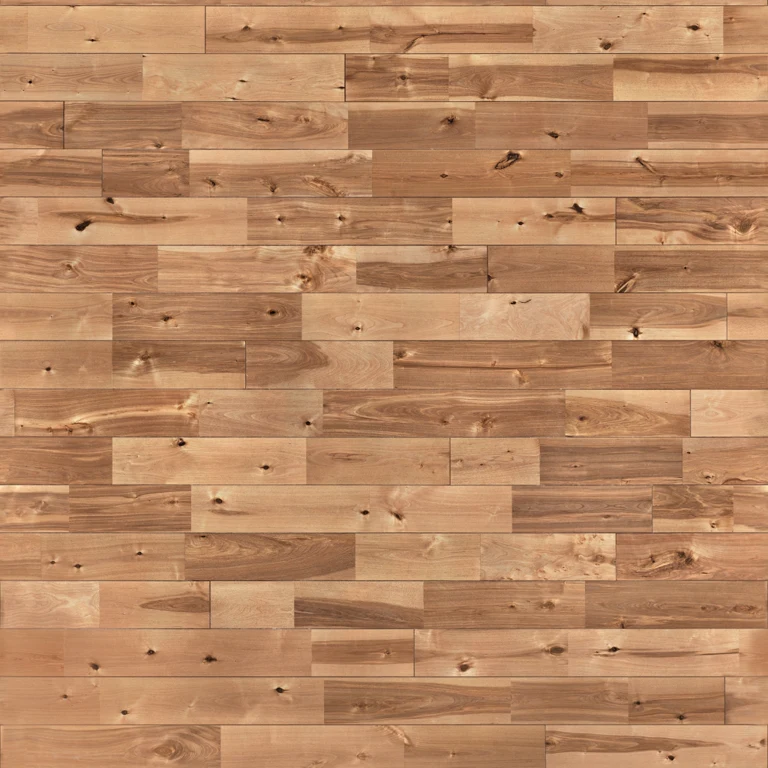
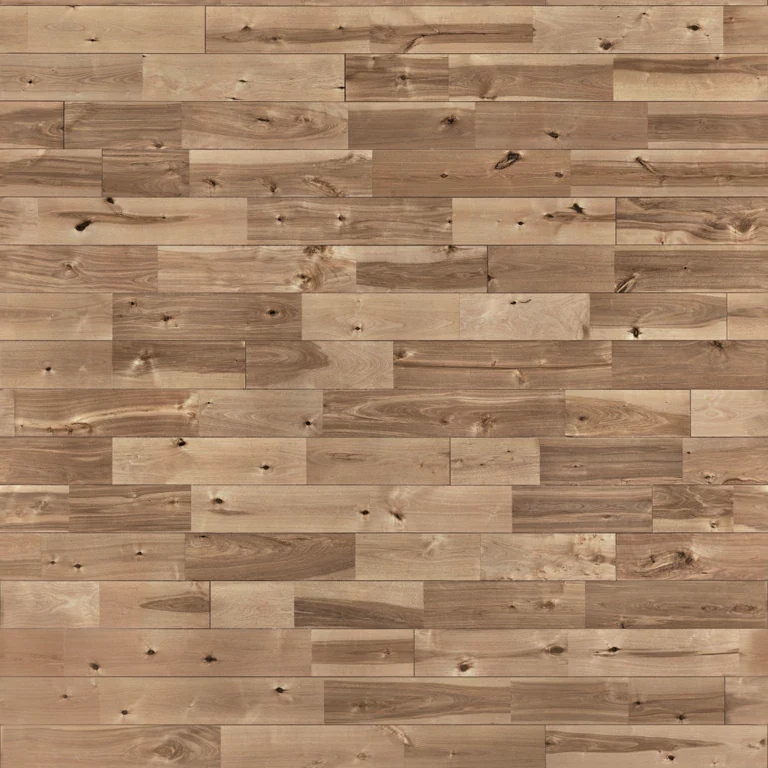
Mejorar el render inicial del showroom y el encuadre móvil

Changed region(s): [[0.9688, 0.25, 1.0, 0.2812], [0.375, 0.3438, 0.4062, 0.375], [0.2188, 0.5, 0.25, 0.5312]]

diff --git a/lib/blum-review-scene.ts b/lib/blum-review-scene.ts
@@ -12,7 +12,6 @@ export type KitchenPose = { chapter: number; travel: number; firstApproach: numb
 
 const finishAssets = {
   limestone: 'kitchen-limestone.webp',
-  plaster: 'kitchen-white_plaster_02-color.webp',
   plasterNormal: 'kitchen-white_plaster_02-normal.webp',
   floor: 'kitchen-wooden_floor_02-color.webp',
   floorNormal: 'kitchen-wooden_floor_02-normal.webp',
@@ -50,7 +49,8 @@ function createBlumScene(canvas: HTMLCanvasElement, demo: BlumDemo | 'kitchen', 
   let environment: T.WebGLRenderTarget | undefined;
   const key = new T.DirectionalLight(0xffebd2, 2.1);
   key.position.set(-2, 5, 4);
-  scene.add(key, new T.HemisphereLight(0xf3f5fa, 0x716657, 1.6));
+  const fill = new T.HemisphereLight(0xf3f5fa, 0x716657, 1.6);
+  scene.add(key, fill);
 
   const camera = new T.PerspectiveCamera(36, 1, 0.05, 30);
   const assembly = new T.Group();
@@ -99,8 +99,8 @@ function createBlumScene(canvas: HTMLCanvasElement, demo: BlumDemo | 'kitchen', 
   }
 
   const limestone = kitchen ? surface(0xe0dbd3, 0.73) : oak;
-  const lacquer = kitchen ? surface(0xe4dcd0, 0.28) : cream;
-  const countertop = kitchen ? surface(0xd8d4ca, 0.29) : cream;
+  const lacquer = kitchen ? surface(0xe4dcd0, 0.43) : cream;
+  const countertop = kitchen ? surface(0xd8d4ca, 0.38) : cream;
 
   function box(parent: T.Object3D, material: T.Material, size: number[], position: number[], radius = 0.002) {
     const [width, height, depth] = size;
@@ -152,6 +152,7 @@ function createBlumScene(canvas: HTMLCanvasElement, demo: BlumDemo | 'kitchen', 
 
   function servo() {
     const [, rightPanel] = cabinet(0.84, 0.72, 0.58, graphite);
+    if (kitchen) box(root, graphite, [.75, .054, .51], [0, -.027, -.313]);
     box(root, countertop, [0.88, 0.032, 0.62], [0, 0.736, -0.285], 0.004);
     box(root, limestone, [0.832, 0.348, 0.021], [0, 0.18, 0.012]);
     const drawer = new T.Group();
@@ -203,14 +204,22 @@ function createBlumScene(canvas: HTMLCanvasElement, demo: BlumDemo | 'kitchen', 
 
   function tower() {
     cabinet(.6, 1.99, .56, graphite);
-    const { door, drawers, setPose } = bindSpaceTower(hardware('tower'));
+    const model = hardware('tower');
+    const { door, drawers, setPose } = bindSpaceTower(model);
+    const interior = kitchen ? drawers.flatMap((drawer, i) => [
+      drawer, cadPart(model, `FixedRail${i}`), cadPart(model, `Slide${i}`),
+    ]) : [];
     const grip = box(root, cap, [.009, .22, .016], [.248, 1.12, .026], .003);
     door.add(grip);
     controlPoint(door, 2, .212, 1.07, .04);
     drawers.forEach((drawer, i) => {
       controlPoint(drawer, 2, 0, [.119, .498, .818, 1.17, 1.448][i], .023);
     });
-    return (pose: DemoPose) => setPose(pose.door, pose.drawers);
+    return (pose: DemoPose) => {
+      // The opaque door conceals the drawers and their rails at the closed stop.
+      interior.forEach(part => { part.visible = pose.door > 0; });
+      setPose(pose.door, pose.drawers);
+    };
   }
 
   function resize(width: number, height: number) {
@@ -234,11 +243,15 @@ function createBlumScene(canvas: HTMLCanvasElement, demo: BlumDemo | 'kitchen', 
 
   function showKitchen(finishes: KitchenFinishes) {
     scene.background = new T.Color(0xd6c9b5);
-    renderer.toneMappingExposure = 1.12;
+    renderer.toneMappingExposure = 1.04;
     renderer.shadowMap.enabled = true;
     renderer.shadowMap.type = T.PCFShadowMap;
-    key.intensity = 2.65;
-    key.position.set(-4.8, 4, 1.1);
+    key.color.set(0xe6efff);
+    key.intensity = 1.25;
+    key.position.set(-4.8, 3.5, .3);
+    fill.color.set(0xf5f5f3);
+    fill.groundColor.set(0x8e8170);
+    fill.intensity = 1.67;
     key.castShadow = true;
     const shadowSize = touch ? 1024 : 2048;
     key.shadow.mapSize.set(shadowSize, shadowSize);
@@ -246,24 +259,28 @@ function createBlumScene(canvas: HTMLCanvasElement, demo: BlumDemo | 'kitchen', 
     key.shadow.needsUpdate = true;
     Object.assign(key.shadow.camera, { left: -4.5, right: 4.5, top: 4, bottom: -4, near: .5, far: 13 });
     key.shadow.camera.updateProjectionMatrix();
-    key.shadow.normalBias = 0.006;
-    key.shadow.bias = -0.0004;
-    const wall = surface(0xcbbca8, .86);
-    const backsplash = surface(0xa99c8c, .73);
-    const plaster = surface(0xe1d9cd, 0.95);
-    const ceiling = surface(0xf5f0e8, .93);
-    ceiling.emissive.set(0xeee8df);
-    ceiling.emissiveIntensity = .21;
-    const floor = surface(0xe4ceb3, .57);
+    key.shadow.normalBias = .012;
+    key.shadow.bias = -.00065;
+    key.shadow.radius = touch ? 1.5 : 2.5;
+    const wall = surface(0xcfc9bc, .91);
+    const backsplash = surface(0xc4b9a8, .67);
+    const plaster = surface(0xdedbd2, .94);
+    const ceiling = surface(0xe9e7e0, .96);
+    ceiling.emissive.set(0xd6d4ce);
+    ceiling.emissiveIntensity = .11;
+    const floor = surface(0xc3c4bd, .71);
     const dark = surface(0x232522, 0.49);
-    const bouncedDaylight = new T.PointLight(0xf9f0dd, 11, 6, 2);
-    bouncedDaylight.position.set(-1.68, 1.55, -.37);
+    graphite.color.set(0x393b3a);
+    graphite.roughness = .61;
+    cap.color.set(0x5f6464);
+    const bouncedDaylight = new T.PointLight(0xe6edfc, 8.2, 7, 2);
+    bouncedDaylight.position.set(-2.16, 1.78, -1.25);
     scene.add(bouncedDaylight);
     const plant = surface(0x485637, 0.82);
     const ceramic = surface(0x857a55, 0.48);
-    const warmLight = surface(0xffedbf, 0.45);
-    warmLight.emissive.set(0xffc37a);
-    warmLight.emissiveIntensity = 1.5;
+    const warmLight = surface(0xffefdb, 0.45);
+    warmLight.emissive.set(0xffd6ac);
+    warmLight.emissiveIntensity = 1;
 
     box(root, floor, [12, .08, 12], [0, -.04, 0], 0).castShadow = false;
     const contact = document.createElement('canvas');
@@ -271,9 +288,9 @@ function createBlumScene(canvas: HTMLCanvasElement, demo: BlumDemo | 'kitchen', 
     const shade = contact.getContext('2d');
     if (shade) {
       const gradient = shade.createRadialGradient(64, 64, 9, 64, 64, 64);
-      gradient.addColorStop(0, '#2b2116b0');
-      gradient.addColorStop(0.42, '#2b21166e');
-      gradient.addColorStop(1, '#2b211600');
+      gradient.addColorStop(0, '#241f1bbb');
+      gradient.addColorStop(0.42, '#241f1b75');
+      gradient.addColorStop(1, '#241f1b00');
       shade.fillStyle = gradient;
       shade.fillRect(0, 0, 128, 128);
       const map = new T.CanvasTexture(contact);
@@ -293,36 +310,41 @@ function createBlumScene(canvas: HTMLCanvasElement, demo: BlumDemo | 'kitchen', 
     box(root, backsplash, [3.39, .735, .018], [-.83, 1.222, -2.631]);
     box(root, ceiling, [7, .11, 7.5], [.48, 2.746, 1.04]).castShadow = false;
     box(root, plaster, [.12, 2.7, 7.5], [3.1, 1.35, 1.04]).castShadow = false;
-    box(root, plaster, [5.74, .045, .054], [.19, 2.672, -2.627], .003);
+    box(root, ceiling, [5.74, .019, .039], [.19, 2.682, -2.634], .001).castShadow = false;
+    box(root, plaster, [.025, .086, 4.2], [-2.609, .043, -.49], .002);
     box(root, plaster, [0.16, 2.7, .55], [-2.7, 1.35, -2.37]);
     box(root, plaster, [0.17, 2.7, 3.45], [-2.7, 1.35, 1.17]);
     box(root, plaster, [0.16, .23, 1.63], [-2.7, 2.58, -1.28]);
     box(root, plaster, [0.16, .75, 1.63], [-2.7, .375, -1.28]);
-    const windowTrim = surface(0x69635a, .47, .28);
-    for (const y of [.766, 2.45]) box(root, windowTrim, [.058, .043, 1.59], [-2.77, y, -1.28]);
-    for (const z of [-2.061, -1.28, -.498]) box(root, windowTrim, [.058, 1.67, .037], [-2.77, 1.61, z]);
+    const windowTrim = surface(0x555653, .48, .22);
+    for (const y of [.766, 2.45]) box(root, windowTrim, [.063, .04, 1.59], [-2.77, y, -1.28]);
+    for (const z of [-2.061, -1.28, -.498]) box(root, windowTrim, [.063, 1.67, .034], [-2.77, 1.61, z]);
+    for (const z of [-2.036, -1.302, -1.258, -.523]) {
+      box(root, dark, [.024, 1.64, .008], [-2.775, 1.61, z], .001);
+    }
     box(root, countertop, [.32, .047, 1.70], [-2.701, .744, -1.28], .005);
-    const pane = new T.MeshPhysicalMaterial({ color: 0xb6c5c1, metalness: .5, roughness: .14,
-      transparent: true, opacity: .105, depthWrite: false });
+    const pane = new T.MeshStandardMaterial({ color: 0xc2d0cd, metalness: .4, roughness: .18,
+      transparent: true, opacity: .12, depthWrite: false });
     materials.push(pane);
     box(root, pane, [.008, 1.65, 1.54], [-2.79, 1.61, -1.28], 0).castShadow = false;
     const exterior = new T.MeshBasicMaterial({ color: 0xffffff, side: T.BackSide });
+    exterior.color.setScalar(2.8);
     materials.push(exterior);
     const domeShape = new T.SphereGeometry(26, 32, 20);
     geometry.set('garden-dome', domeShape);
     const dome = new T.Mesh(domeShape, exterior);
-    dome.rotation.y = -.33;
+    dome.rotation.y = .82;
     scene.add(dome);
     const trim = surface(0xc8c3b8, .5);
-    const lampShape = new T.CylinderGeometry(.043, .043, .016, 18);
+    const lampShape = new T.CylinderGeometry(.043, .043, .009, 18);
     const lensShape = new T.CylinderGeometry(.032, .032, .003, 18);
     geometry.set('ceiling-trim', lampShape);
     geometry.set('ceiling-lens', lensShape);
     for (const [x, z] of [[-1.84, -1.65], [-.72, -1.65], [.42, -1.65], [1.54, -1.65], [-.82, .54], [.65, .54]]) {
       const fixture = new T.Mesh(lampShape, trim);
       const lens = new T.Mesh(lensShape, warmLight);
-      fixture.position.set(x, 2.689, z);
-      lens.position.set(x, 2.678, z);
+      fixture.position.set(x, 2.688, z);
+      lens.position.set(x, 2.683, z);
       root.add(fixture, lens);
     }
 
@@ -341,10 +363,11 @@ function createBlumScene(canvas: HTMLCanvasElement, demo: BlumDemo | 'kitchen', 
       box(root, lacquer, [.652, .58, .36], [x, 1.84, -2.48], .003);
     }
     box(root, lacquer, [.898, .155, .355], [.015, 2.053, -2.48]);
-    box(root, warmLight, [3.03, .007, .016], [-1.034, 1.546, -2.35]);
+    box(root, dark, [2.85, .012, .025], [-.97, 1.548, -2.395]);
+    box(root, warmLight, [2.84, .003, .017], [-.97, 1.541, -2.395]);
     for (const x of [-2, -1.25, -.5, .24]) {
-      const led = new T.PointLight(0xffc389, 1.1, .95, 2);
-      led.position.set(x, 1.48, -2.37);
+      const led = new T.PointLight(0xffd2a4, .78, 1.21, 2);
+      led.position.set(x, 1.5, -2.32);
       scene.add(led);
     }
 
@@ -383,8 +406,10 @@ function createBlumScene(canvas: HTMLCanvasElement, demo: BlumDemo | 'kitchen', 
     cylinder(ceramic, .032, .043, .15, .77, .93, -2.34);
     cylinder(carbon, .018, .018, .03, .77, 1.02, -2.34);
     cylinder(ceramic, .062, .04, .05, .72, .88, -2.27);
-    for (const x of [1.79, 2.41]) box(root, graphite, [.603, 2.63, .58], [x, 1.315, -2.29]);
-    box(root, graphite, [.597, .63, .58], [1.18, 2.31, -2.29]);
+    for (const x of [1.79, 2.41]) {
+      box(root, graphite, [.603, 2.63, .58], [x, 1.315, -2.29]).receiveShadow = false;
+    }
+    box(root, graphite, [.597, .63, .58], [1.18, 2.31, -2.29]).receiveShadow = false;
 
     // Batch opaque room meshes that share a material and shadow settings.
     // The door, drawers and hardware are added separately below.
@@ -436,31 +461,40 @@ function createBlumScene(canvas: HTMLCanvasElement, demo: BlumDemo | 'kitchen', 
     }
     tile(finishes.limestone, true, 1, 1, T.MirroredRepeatWrapping);
     limestone.map = finishes.limestone;
-    tile(finishes.plaster, true, 4, 2);
     tile(finishes.plasterNormal, false, 4, 2);
-    for (const material of [wall, plaster, backsplash]) {
-      material.map = finishes.plaster;
+    backsplash.map = finishes.limestone;
+    for (const material of [wall, plaster, backsplash, limestone, ceiling, countertop]) {
       material.normalMap = finishes.plasterNormal;
-      material.normalScale.setScalar(.10);
+      material.normalScale.setScalar(.12);
     }
+    ceiling.normalScale.setScalar(.06);
     tile(finishes.floor, true, 5, 5);
     tile(finishes.floorNormal, false, 5, 5);
     floor.map = finishes.floor;
     floor.normalMap = finishes.floorNormal;
-    floor.normalScale.setScalar(.42);
+    floor.normalScale.setScalar(.28);
 
     exterior.map = finishes.garden;
     const generator = new T.PMREMGenerator(renderer);
     environment = generator.fromEquirectangular(finishes.garden);
     generator.dispose();
     scene.environment = environment.texture;
-    scene.environmentIntensity = .32;
+    scene.environmentIntensity = .4;
     const points = [
-      { eye: new T.Vector3(1.83, 1.48, 3.65), look: new T.Vector3(-.26, 1.20, -1.12) },
+      { eye: new T.Vector3(1.62, 1.43, 3.59), look: new T.Vector3(-.12, 1.22, -1.20) },
       { eye: new T.Vector3(.91, 1.04, 2.18), look: new T.Vector3(-.23, .49, .08) },
       { eye: new T.Vector3(-.63, 1.57, -.44), look: new T.Vector3(.015, 1.81, -2.11) },
       { eye: new T.Vector3(2.14, 1.32, .85), look: new T.Vector3(1.04, 1.01, -1.8) },
     ];
+    // Match the two startup images, including the crop applied by object-fit: cover.
+    const wide = { ...points[0], aspect: 1920 / 880, verticalTangent: Math.tan(T.MathUtils.degToRad(41 / 2)) };
+    const tallAspect = 780 / 1688;
+    const tall = {
+      eye: new T.Vector3(-.58, 1.39, 3.65), look: new T.Vector3(.44, 1.02, -1.55),
+      aspect: tallAspect, verticalTangent: Math.tan(T.MathUtils.degToRad(34 / 2)) / tallAspect,
+    };
+    const tallPreview = matchMedia('(max-aspect-ratio: 19/20)');
+    let opening = wide;
     const look = new T.Vector3();
     const eye = new T.Vector3();
     const pose: DemoPose = { door: 0, drawers: [], inspect: false };
@@ -468,6 +502,8 @@ function createBlumScene(canvas: HTMLCanvasElement, demo: BlumDemo | 'kitchen', 
     const lastDoors = [-1, -1, -1];
     const lastDrawers = [0, 0, 0, 0, 0];
     let lastChapter = -1, lastAmount = -1, resized = true;
+    let chapterFov = 41;
+    let openingFov = 41;
 
     function renderKitchen({ chapter, travel, firstApproach, doors, drawers }: KitchenPose) {
       const previous = Math.max(0, chapter - 1);
@@ -475,8 +511,14 @@ function createBlumScene(canvas: HTMLCanvasElement, demo: BlumDemo | 'kitchen', 
       const amount = chapter <= 1 ? firstApproach : travel;
       const cameraMoved = resized || lastChapter !== next || lastAmount !== amount;
       if (cameraMoved) {
-        eye.lerpVectors(points[previous].eye, points[next].eye, amount);
-        look.lerpVectors(points[previous].look, points[next].look, amount);
+        const from = previous === 0 ? opening : points[previous];
+        eye.lerpVectors(from.eye, points[next].eye, amount);
+        look.lerpVectors(from.look, points[next].look, amount);
+        const fov = previous === 0 ? T.MathUtils.lerp(openingFov, chapterFov, amount) : chapterFov;
+        if (camera.fov !== fov) {
+          camera.fov = fov;
+          camera.updateProjectionMatrix();
+        }
         camera.position.copy(eye);
         camera.lookAt(look);
         lastChapter = next;
@@ -506,7 +548,10 @@ function createBlumScene(canvas: HTMLCanvasElement, demo: BlumDemo | 'kitchen', 
       });
     }
     function resizeKitchen(width: number, height: number) {
-      camera.fov = 41 * Math.max(1, .88 / (width / Math.max(1, height))) ** .68;
+      const aspect = Math.max(1, width) / Math.max(1, height);
+      chapterFov = 41 * Math.max(1, .88 / aspect) ** .68;
+      opening = tallPreview.matches ? tall : wide;
+      openingFov = T.MathUtils.radToDeg(2 * Math.atan(opening.verticalTangent * Math.min(1, opening.aspect / aspect)));
       resize(width, height);
       resized = true;
     }

diff --git a/components/kitchen-showroom-3d.tsx b/components/kitchen-showroom-3d.tsx
@@ -183,8 +183,8 @@ export function KitchenShowroom3D() {
   return <section className="kitchen-experience kitchen-three" aria-label="Recorrido interactivo por una cocina">
     <div className={`kitchen-stage chapter-${chapter}`} ref={stage} data-three-ready={ready} data-three-chapter={chapter}>
       {!ready && <picture className="kitchen-three-preview" aria-hidden="true">
-        <source media="(max-aspect-ratio: 3/4)" srcSet="/assets/kitchen-preview-tall.webp" />
-        <img src="/assets/kitchen-preview-wide.webp" alt="" width={1600} height={1000} fetchPriority="high" />
+        <source media="(max-aspect-ratio: 19/20)" srcSet="/assets/kitchen-preview-tall.webp" />
+        <img src="/assets/kitchen-preview-wide.webp" alt="" width={1920} height={880} fetchPriority="high" />
       </picture>}
       <canvas className="kitchen-three-canvas" ref={canvas} aria-hidden="true" />
       {unavailable && <p className="kitchen-three-status" role="status">La vista interactiva no está disponible en este navegador.</p>}

diff --git a/app/kitchen-three.css b/app/kitchen-three.css
@@ -28,6 +28,7 @@
   background: linear-gradient(0deg, #151511d9 0%, #1515113b 27%, transparent 54%),
     linear-gradient(180deg, #15151160, transparent 23%);
 }
+.kitchen-three .kitchen-stage .kitchen-shade::after { content: none; }
 
 .kitchen-three .kitchen-heading { bottom: 86px; }
 .kitchen-three .kitchen-enter { bottom: 80px; }
